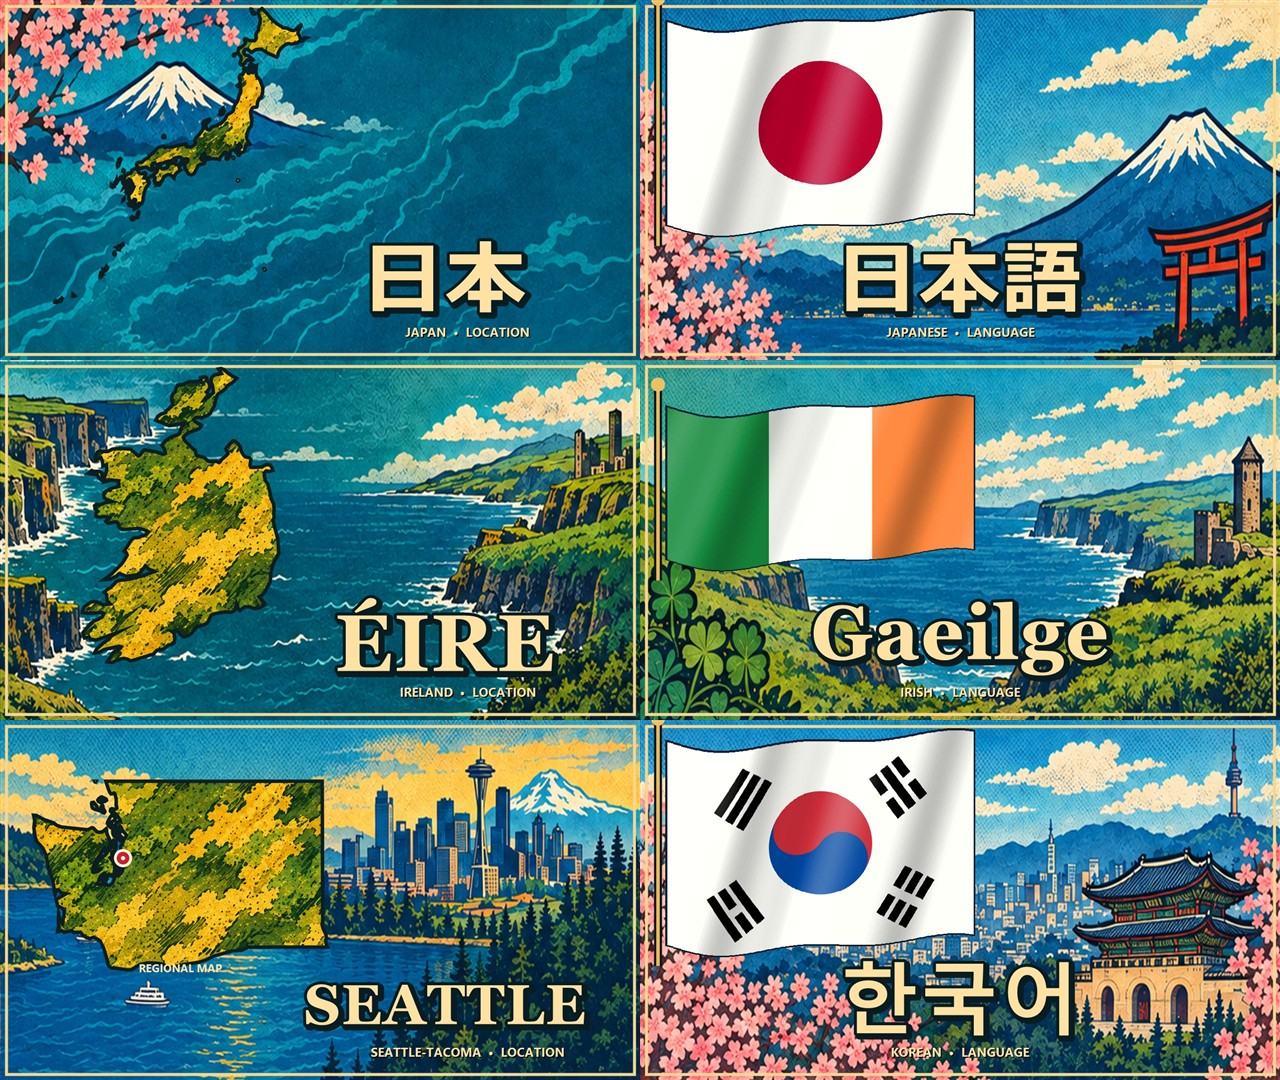
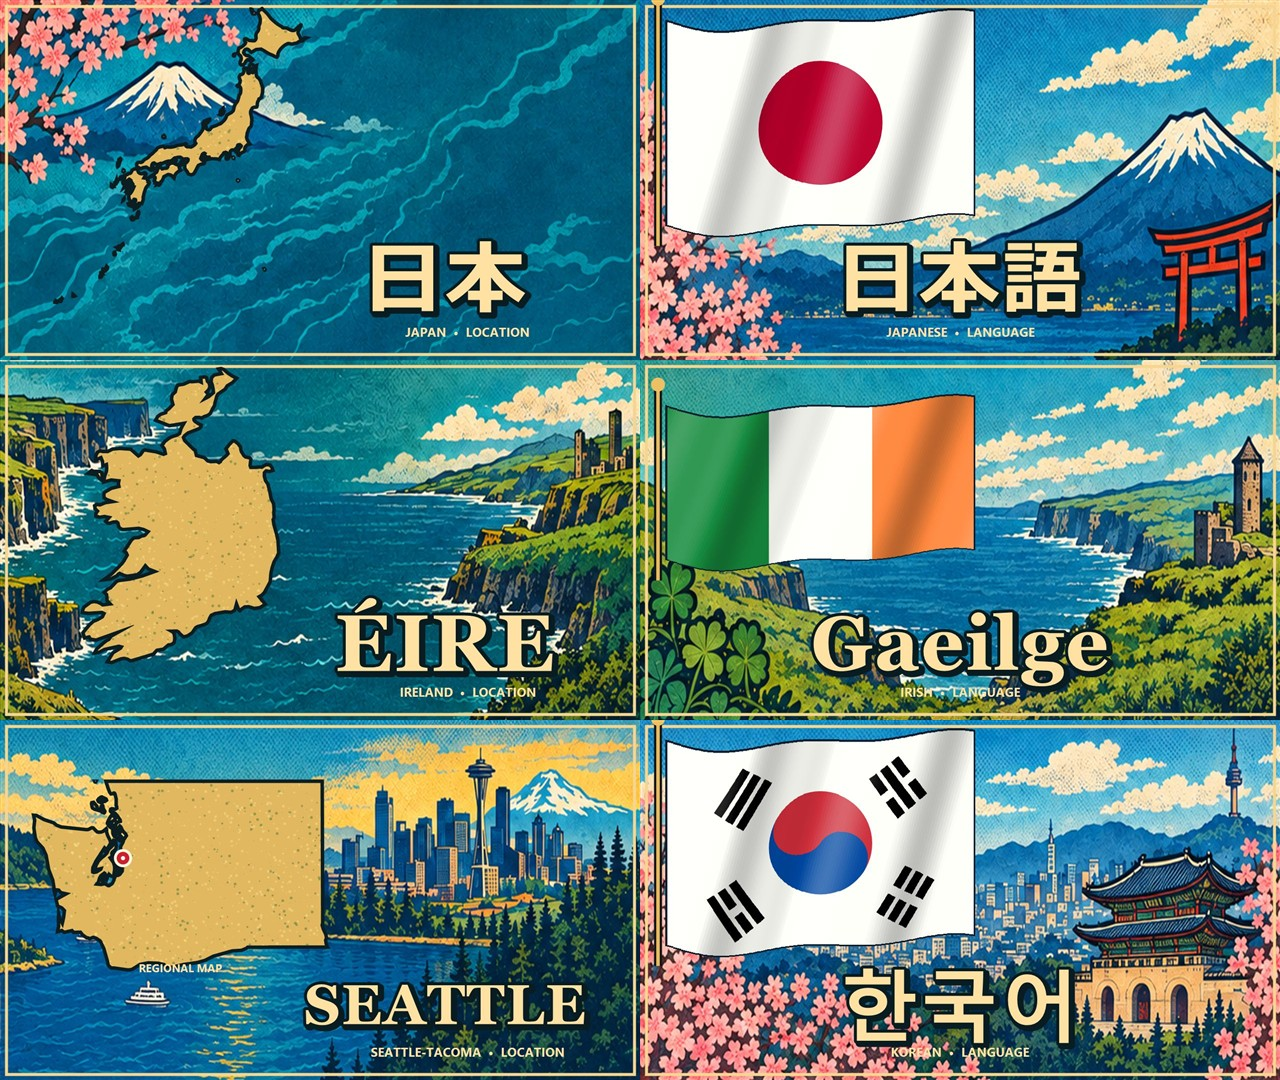
Restore reviewed scoped artwork compositions

diff --git a/README.md b/README.md
@@ -67,10 +67,7 @@ Scenic backgrounds and map-fill textures are decorative illustrations, not geogr
 ![Classic location and language cards: Japan and Japanese, Ireland and Irish, Seattle regional map and Korean](docs/samples/scoped-classic.jpg)
 
 When no verified location or ancestor map is available, a labeled generic globe is used. Languages without a
-representative flag use a neutral globe. North America (`r101218`) and Arabic (`l122`) show the fallbacks
-in Cartoon, Futuristic and Classic:
-
-![Arabic neutral-language and North America generic-location examples in Cartoon, Futuristic and Classic](docs/samples/scoped-fallbacks.jpg)
+representative flag use a neutral globe.
 
 ## Install a ready-made pack
 
@@ -269,9 +266,9 @@ only names, country names and geometry were retained. Natural Earth data is
 [public domain](https://www.naturalearthdata.com/about/terms-of-use/). The flag motifs are original geometric drawings.
 Japan and Ireland outlines additionally use Natural Earth
 [`ne_50m_admin_0_countries`](https://github.com/nvkelso/natural-earth-vector/blob/v5.1.2/geojson/ne_50m_admin_0_countries.geojson).
-The scoped scenic layers in `data\scoped-scenes` and map materials in `data\materials` were AI-generated for
-this project and are decorative, not geographic or terrain data. Specific scenes are used only for the matching
-sample subjects; other cards use neutral scenes. They and the produced artwork are distributed under GPL-3.0.
+The scoped scenic layers in `data\scoped-scenes` and `data\scenes` were AI-generated for this project and are
+decorative, not geographic data. Specific scenes are used only for the matching sample subjects; other cards
+use neutral scenes. They and the produced artwork are distributed under GPL-3.0.
 The Korean flag construction follows the
 [Republic of Korea Ministry of the Interior and Safety](https://www.mois.go.kr/eng/sub/a03/nationalSymbol/screen.do).
 The approximate [Seattle coordinates](https://www.geodatos.net/en/coordinates/united-states/seattle) are used
